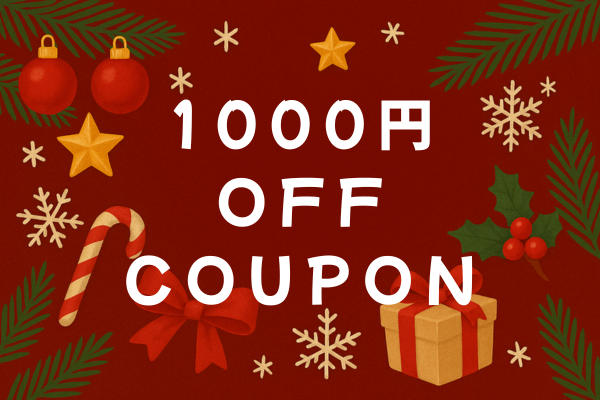
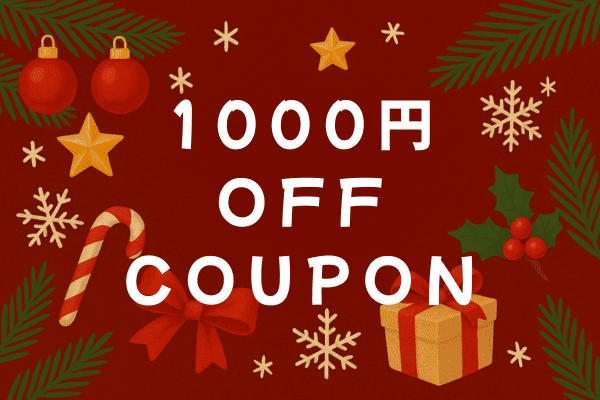
画像データ縮小

diff --git a/index.html b/index.html
@@ -3,7 +3,7 @@
 <head>
   <meta charset="UTF-8" />
   <meta name="viewport" content="width=device-width, initial-scale=1.0"/>
-  <title>クーポンカードゲーム</title>
+  <title>Xmas Event</title>
   <style>
     body {
       font-family: -apple-system, BlinkMacSystemFont, "Noto Sans JP", sans-serif;
